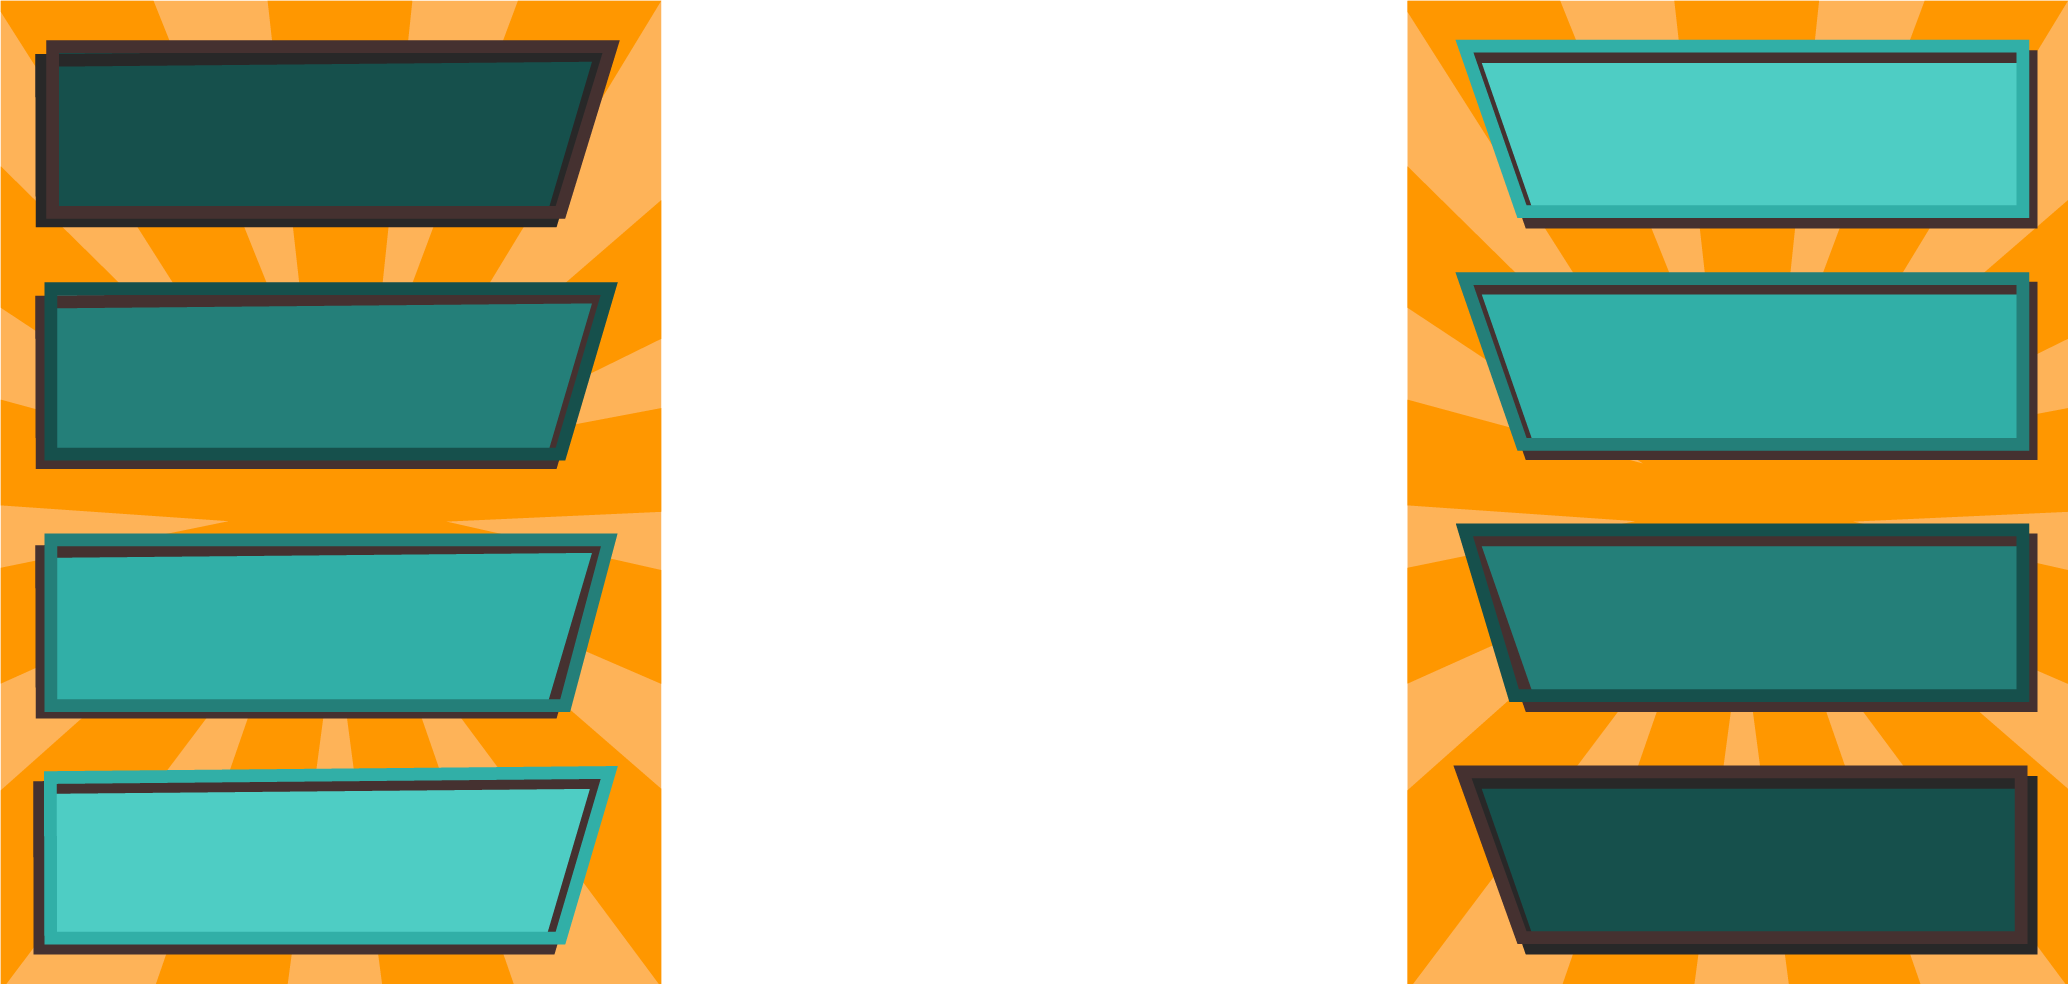
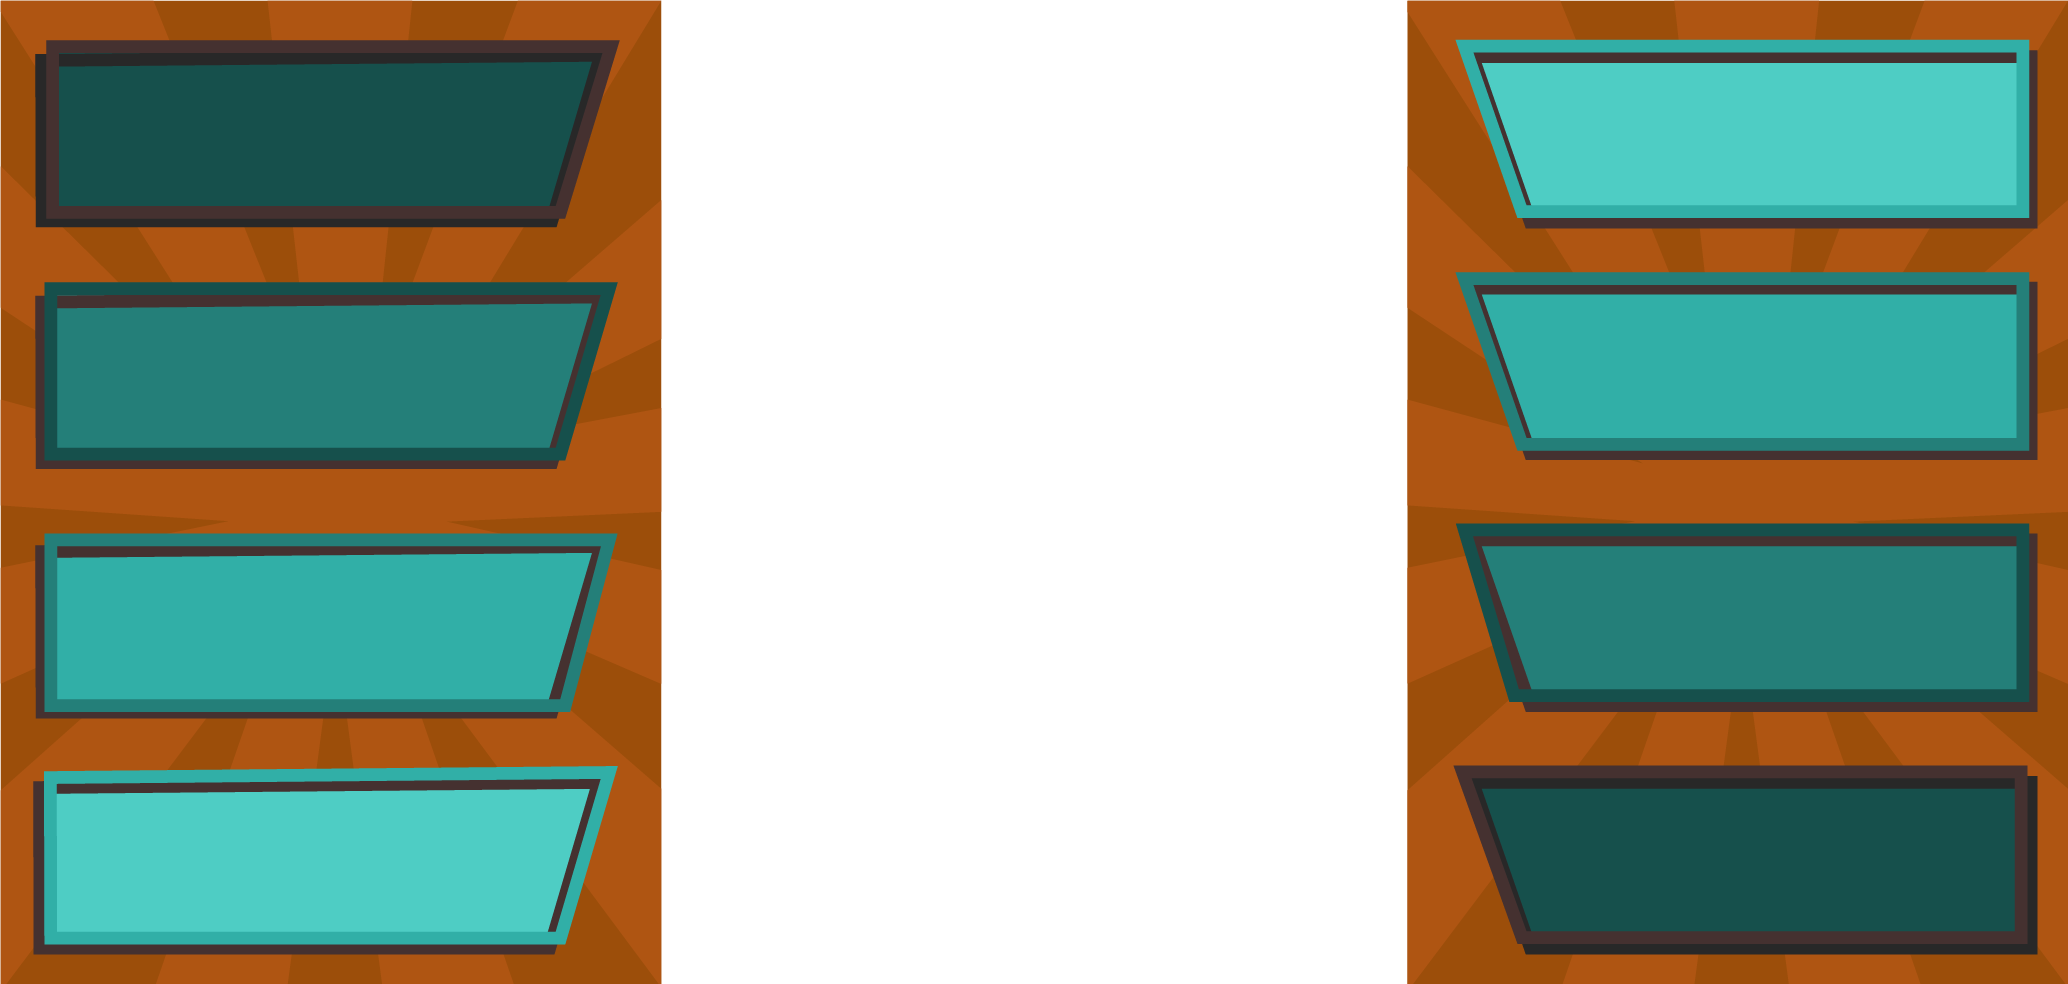
plein de trucs
Son notification
Qd on clique sur une notif on gagne 100 de score
Changement fond HUD tuto pour qu'il soit moins orange
Son écran de victoire

Changed region(s): [[0.6809, 0.0, 1.0, 1.0], [0.0, 0.0, 0.3404, 1.0]]

diff --git a/Assets/Scripts/GlobalGame/MainSceneManager.cs b/Assets/Scripts/GlobalGame/MainSceneManager.cs
@@ -1,6 +1,7 @@
 using JetBrains.Annotations;
 using System.Collections;
 using System.Collections.Generic;
+using TMPro;
 using Unity.VisualScripting;
 using UnityEngine;
 using UnityEngine.SceneManagement;
@@ -25,6 +26,9 @@ public class MainSceneManager : MonoBehaviour
     public SpawnManager spawnManager;
     public Animator djAnimator;
     public VictoryManager victoryManager;
+    public GameManager gameManager;
+    public TextMeshProUGUI scoreFinalText;
+
 
     public Canvas victoryCanvas;
     public List<Canvas> canvasToHide;
@@ -146,13 +150,15 @@ public class MainSceneManager : MonoBehaviour
         spawnManager.DestroySpawner();
         yield return new WaitForSeconds(60);
         Time.timeScale = 0f;
-        //jouer un son de victoire
-        yield return new WaitForSeconds(1);//attendre le temps du son
+        victoryManager.PlayVictorySound();
+        victoryCanvas.gameObject.SetActive(true);
+        scoreFinalText.text = gameManager.score.ToString();
         foreach (Canvas canvas in canvasToHide)
         {
             canvas.gameObject.SetActive(false); 
         }
-        victoryCanvas.gameObject.SetActive(true);
+        
+   
     }
 
     public void OnPauseCliqued()

diff --git a/Assets/Scripts/Canvas/VictoryManager.cs b/Assets/Scripts/Canvas/VictoryManager.cs
@@ -1,23 +1,22 @@
 using System.Collections;
 using System.Collections.Generic;
+using Unity.VisualScripting;
 using UnityEngine;
 using UnityEngine.SceneManagement;
 
 public class VictoryManager : MonoBehaviour
 {
-    public AudioSource[] audioSources;
+
     public AudioClip[] audioClips;
 
     public void PlayVictorySound()
     {
-        audioSources[0].clip = audioClips[0];
-        audioSources[0].Play();
+        SFXManager.instance.PlaySoundFXClip(audioClips[0], transform, 1f);
     }
 
     public void PlayLooseSound()
     {
-        audioSources[1].clip = audioClips[1];
-        audioSources[1].Play();
+        SFXManager.instance.PlaySoundFXClip(audioClips[1], transform, 1f);
     }
 
     public void OnQuitCliqued()
